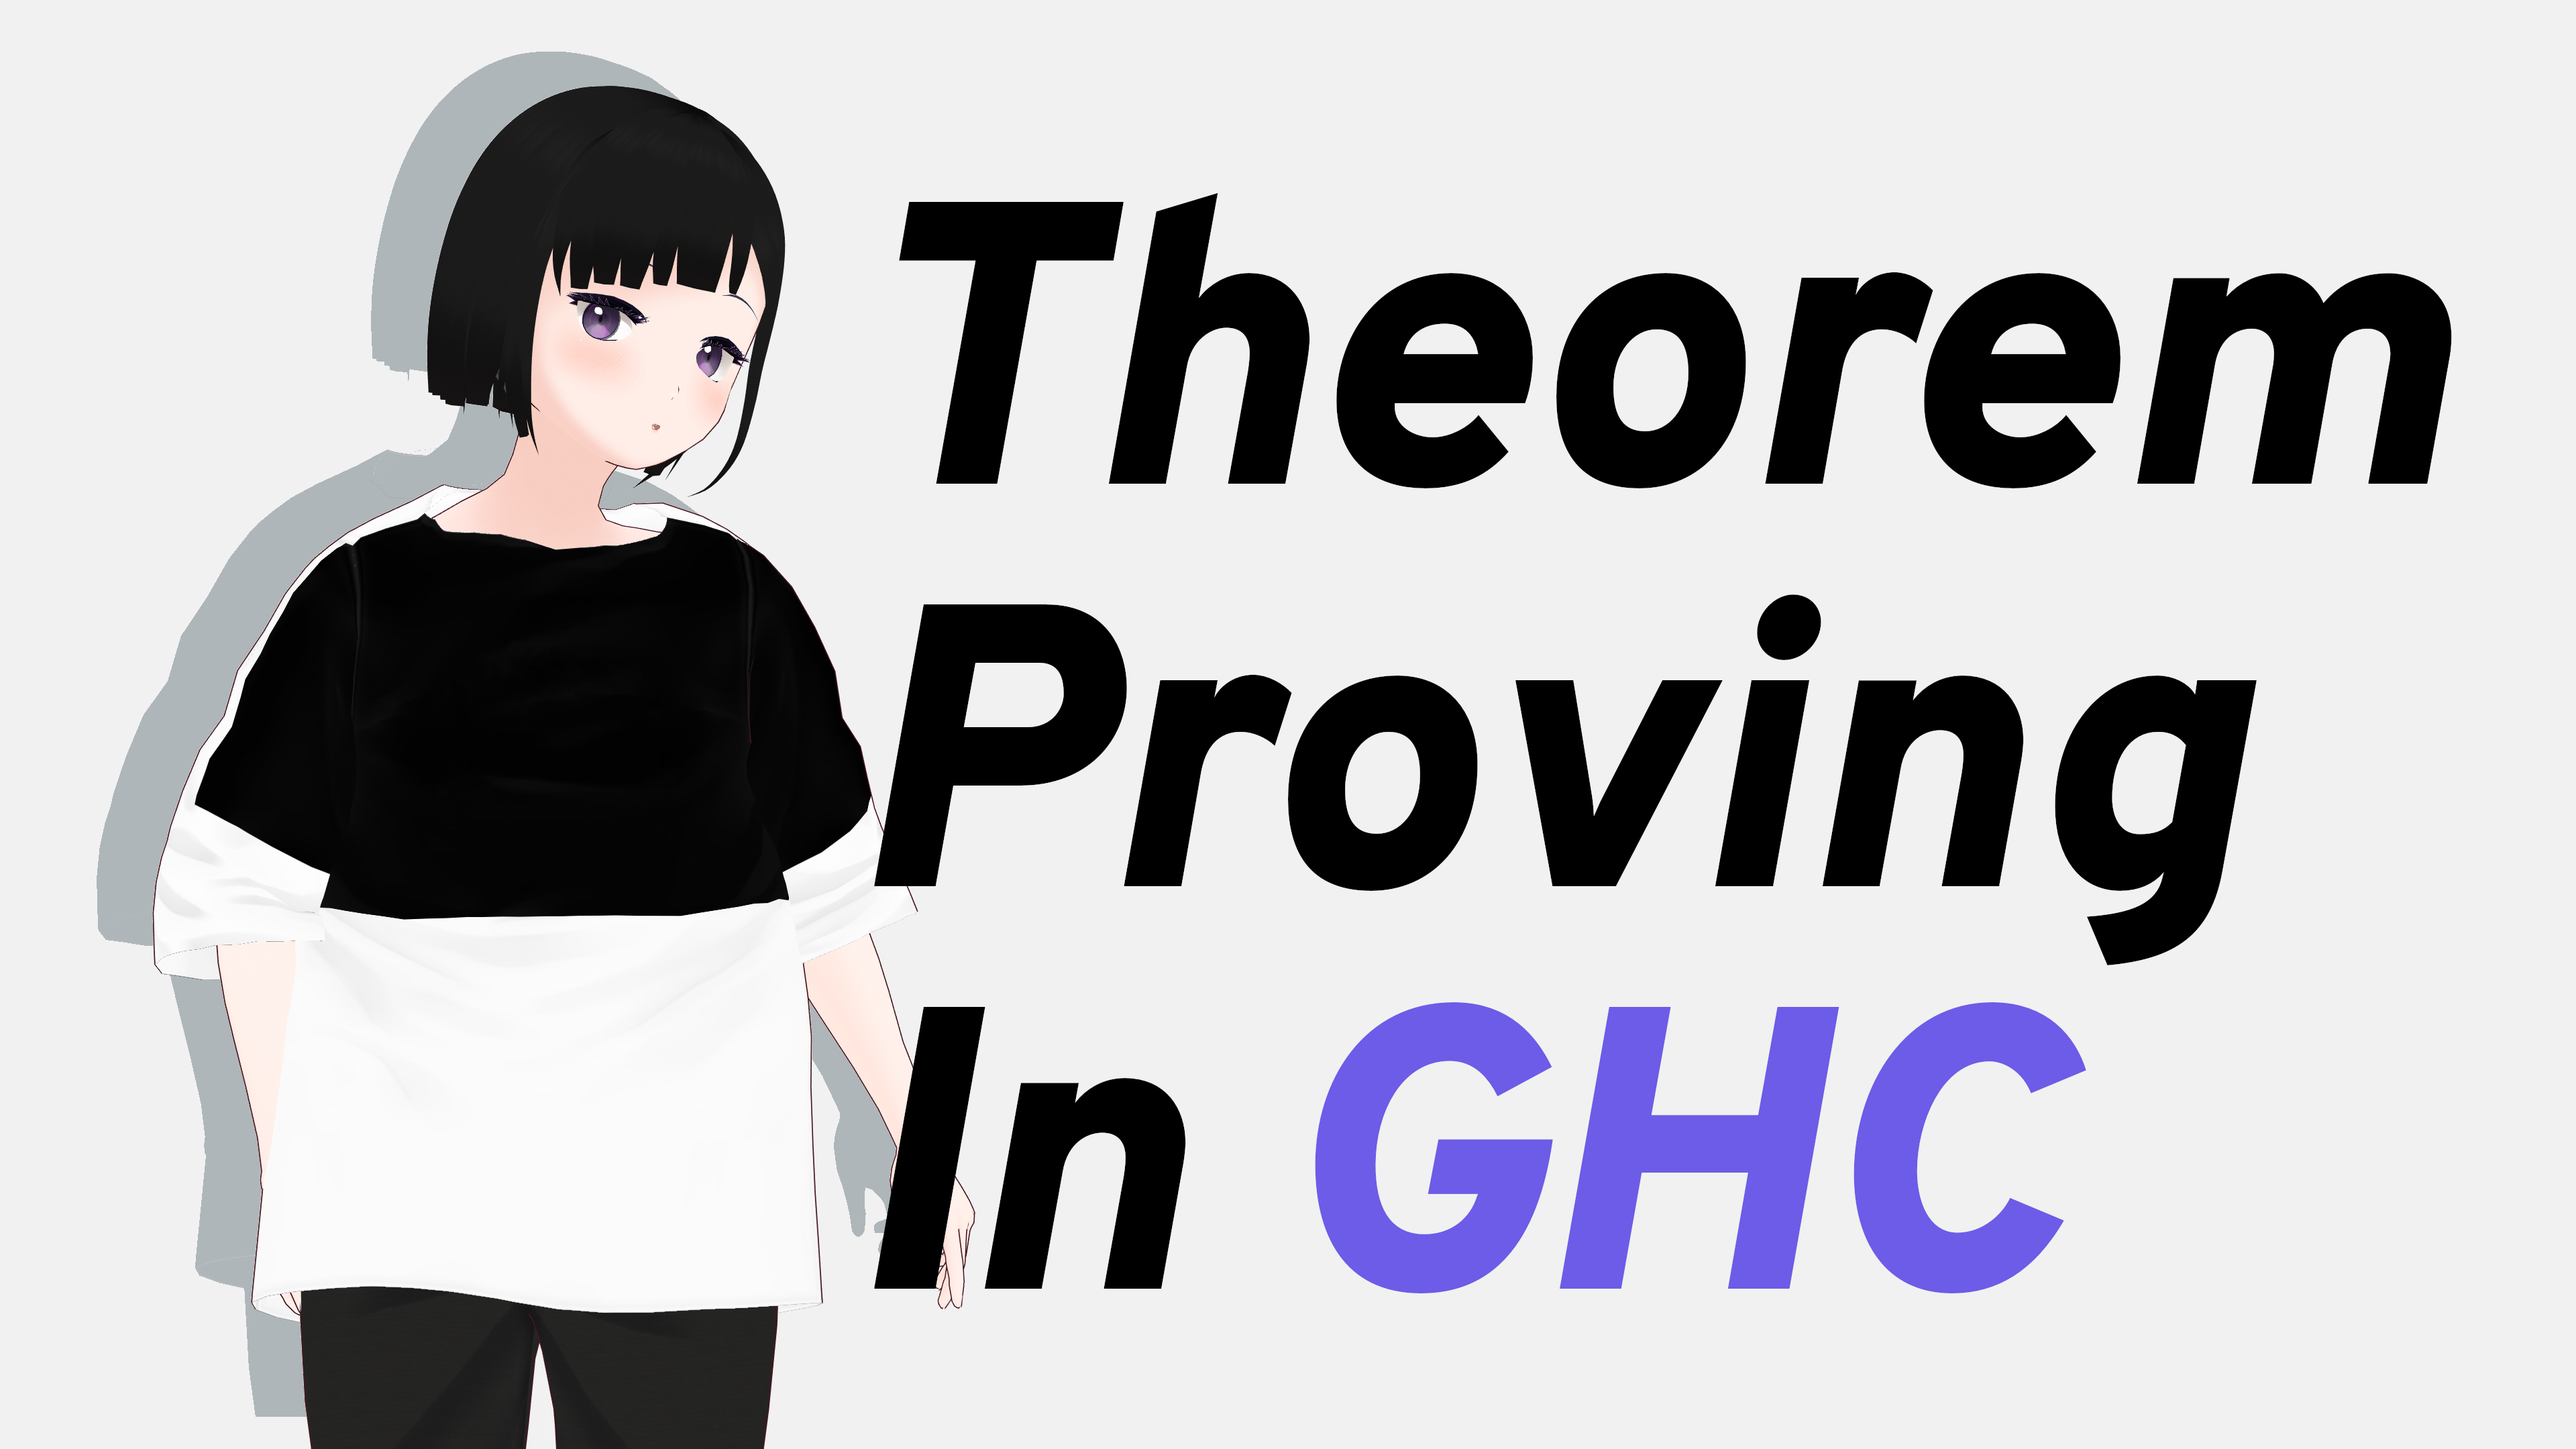
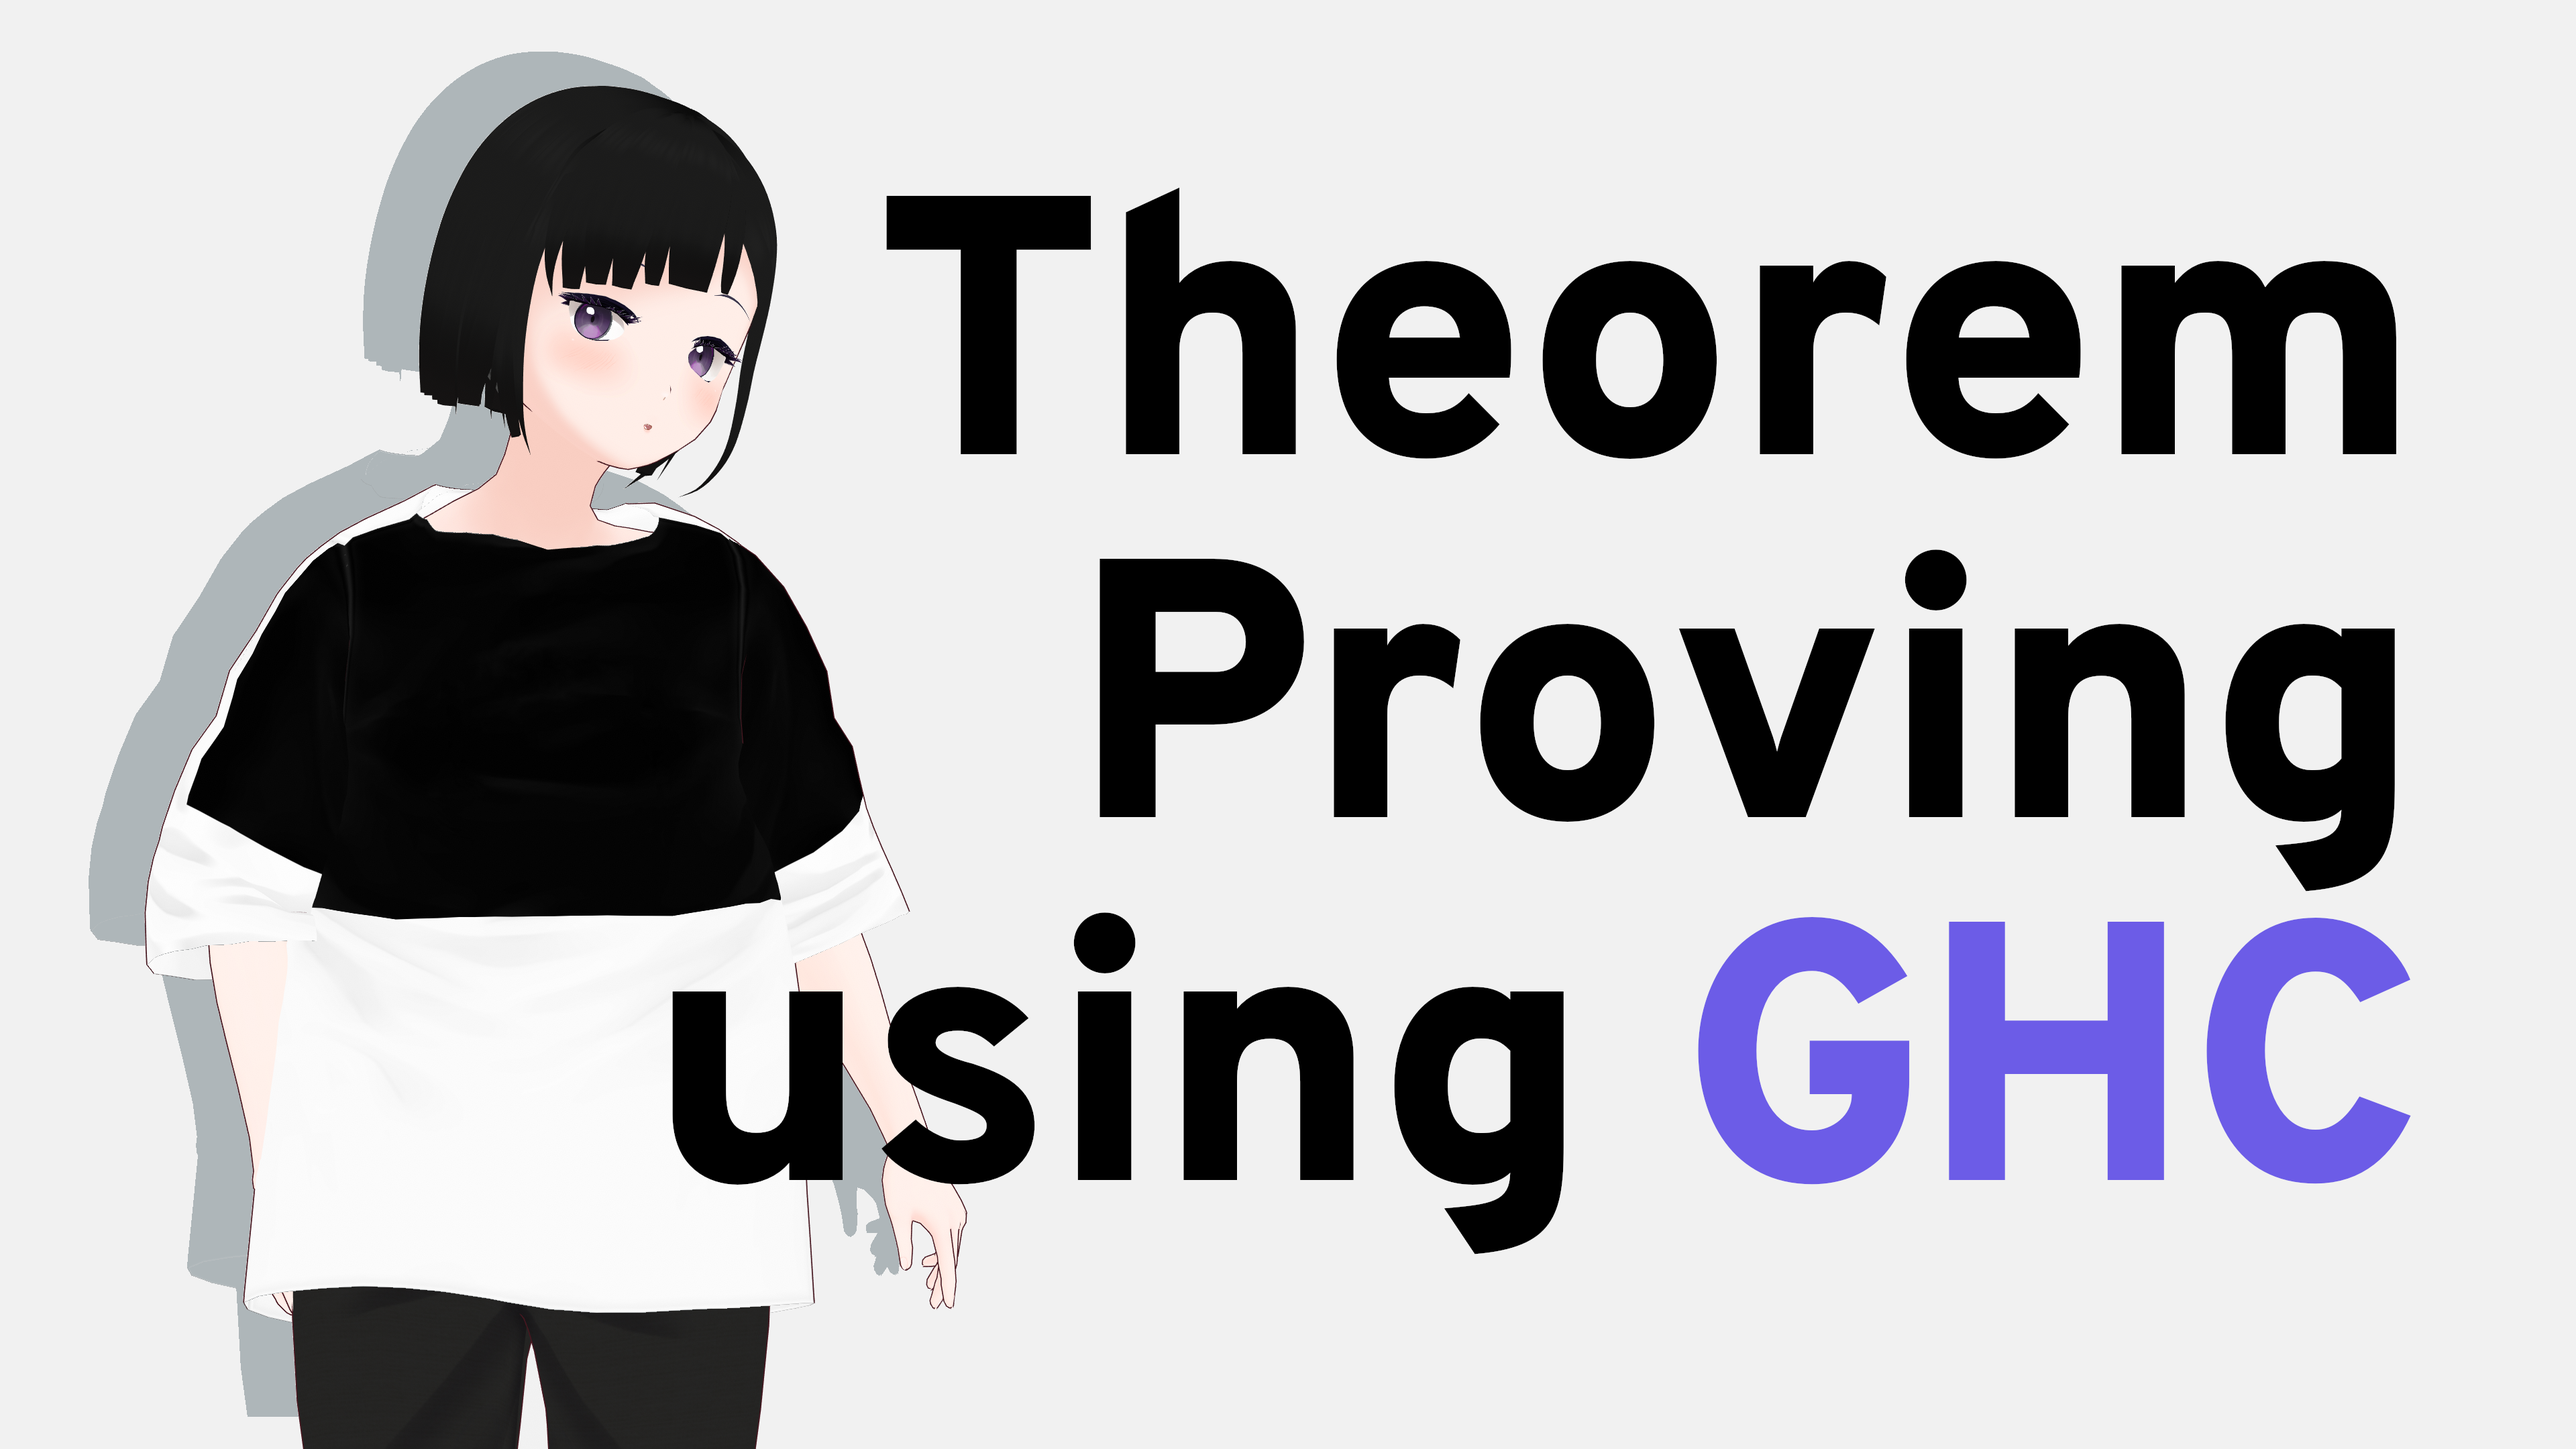
Change: Update the title

diff --git a/README.md b/README.md
@@ -1,11 +1,11 @@
-# Theorem Proving in GHC
+# Theorem Proving using GHC
 
-[![Lint](https://github.com/coord-e/slide-coins20lt-proving-in-ghc/workflows/Lint/badge.svg)](https://github.com/coord-e/slide-coins20lt-proving-in-ghc/actions?workflow=Lint)
-[![Deploy](https://github.com/coord-e/slide-coins20lt-proving-in-ghc/workflows/Deploy/badge.svg)](https://github.com/coord-e/slide-coins20lt-proving-in-ghc/actions?workflow=Deploy)
+[![Lint](https://github.com/coord-e/slide-coins20lt-prove-using-ghc/workflows/Lint/badge.svg)](https://github.com/coord-e/slide-coins20lt-prove-using-ghc/actions?workflow=Lint)
+[![Deploy](https://github.com/coord-e/slide-coins20lt-prove-using-ghc/workflows/Deploy/badge.svg)](https://github.com/coord-e/slide-coins20lt-prove-using-ghc/actions?workflow=Deploy)
 
 coins20LT#1で発表
 
 ## デプロイ
 
-- [PDF](https://coord-e.github.io/slide-coins20lt-proving-in-ghc/slide.pdf)
-- [HTML](https://coord-e.github.io/slide-coins20lt-proving-in-ghc/)
+- [PDF](https://coord-e.github.io/slide-coins20lt-prove-using-ghc/slide.pdf)
+- [HTML](https://coord-e.github.io/slide-coins20lt-prove-using-ghc/)
